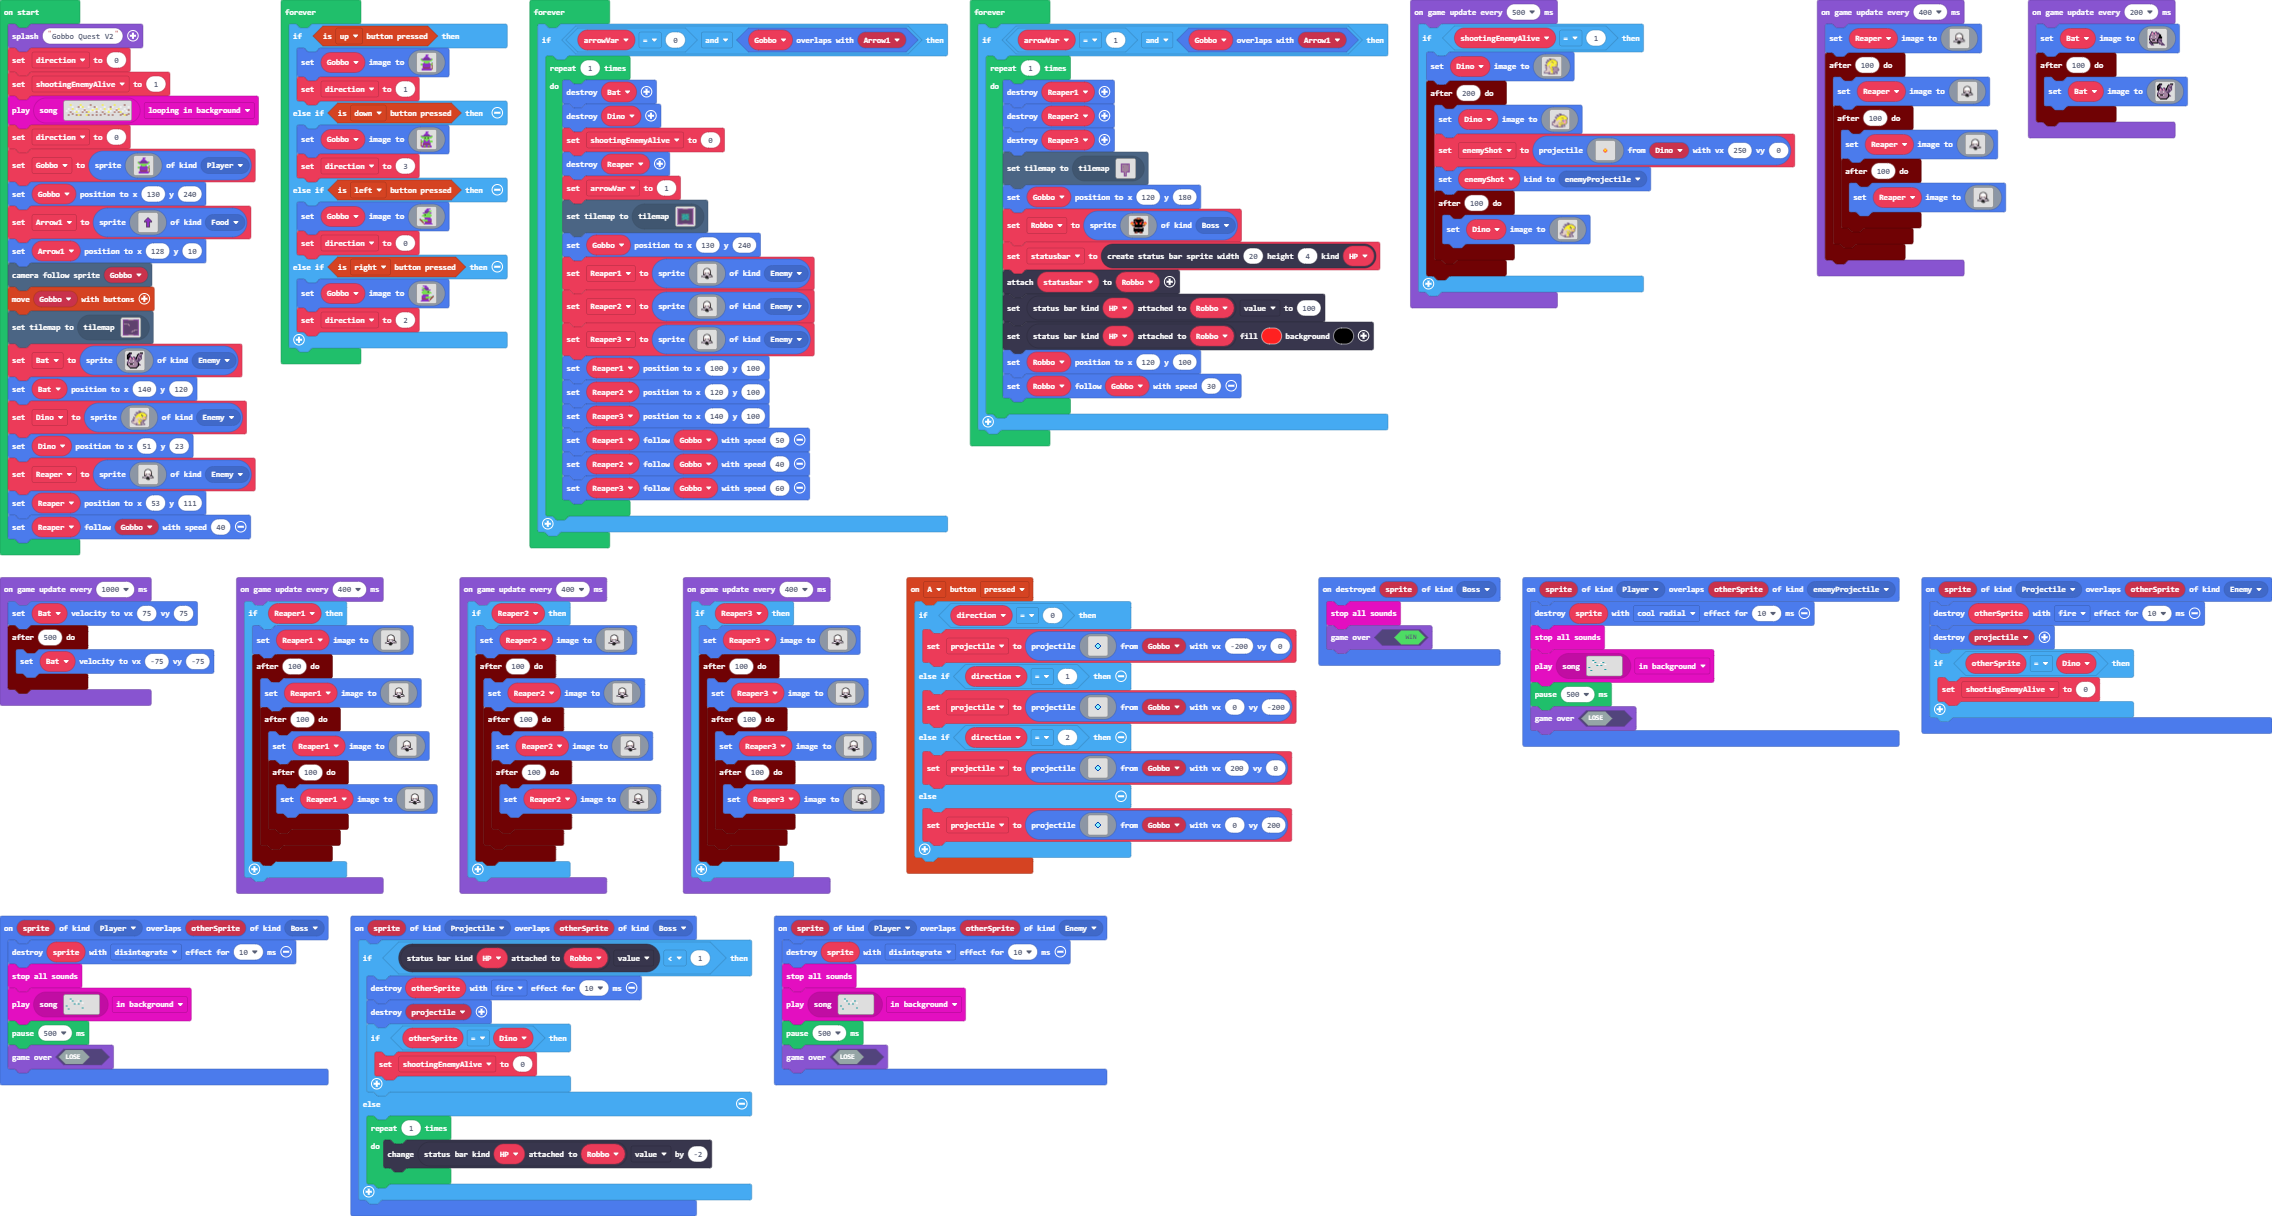
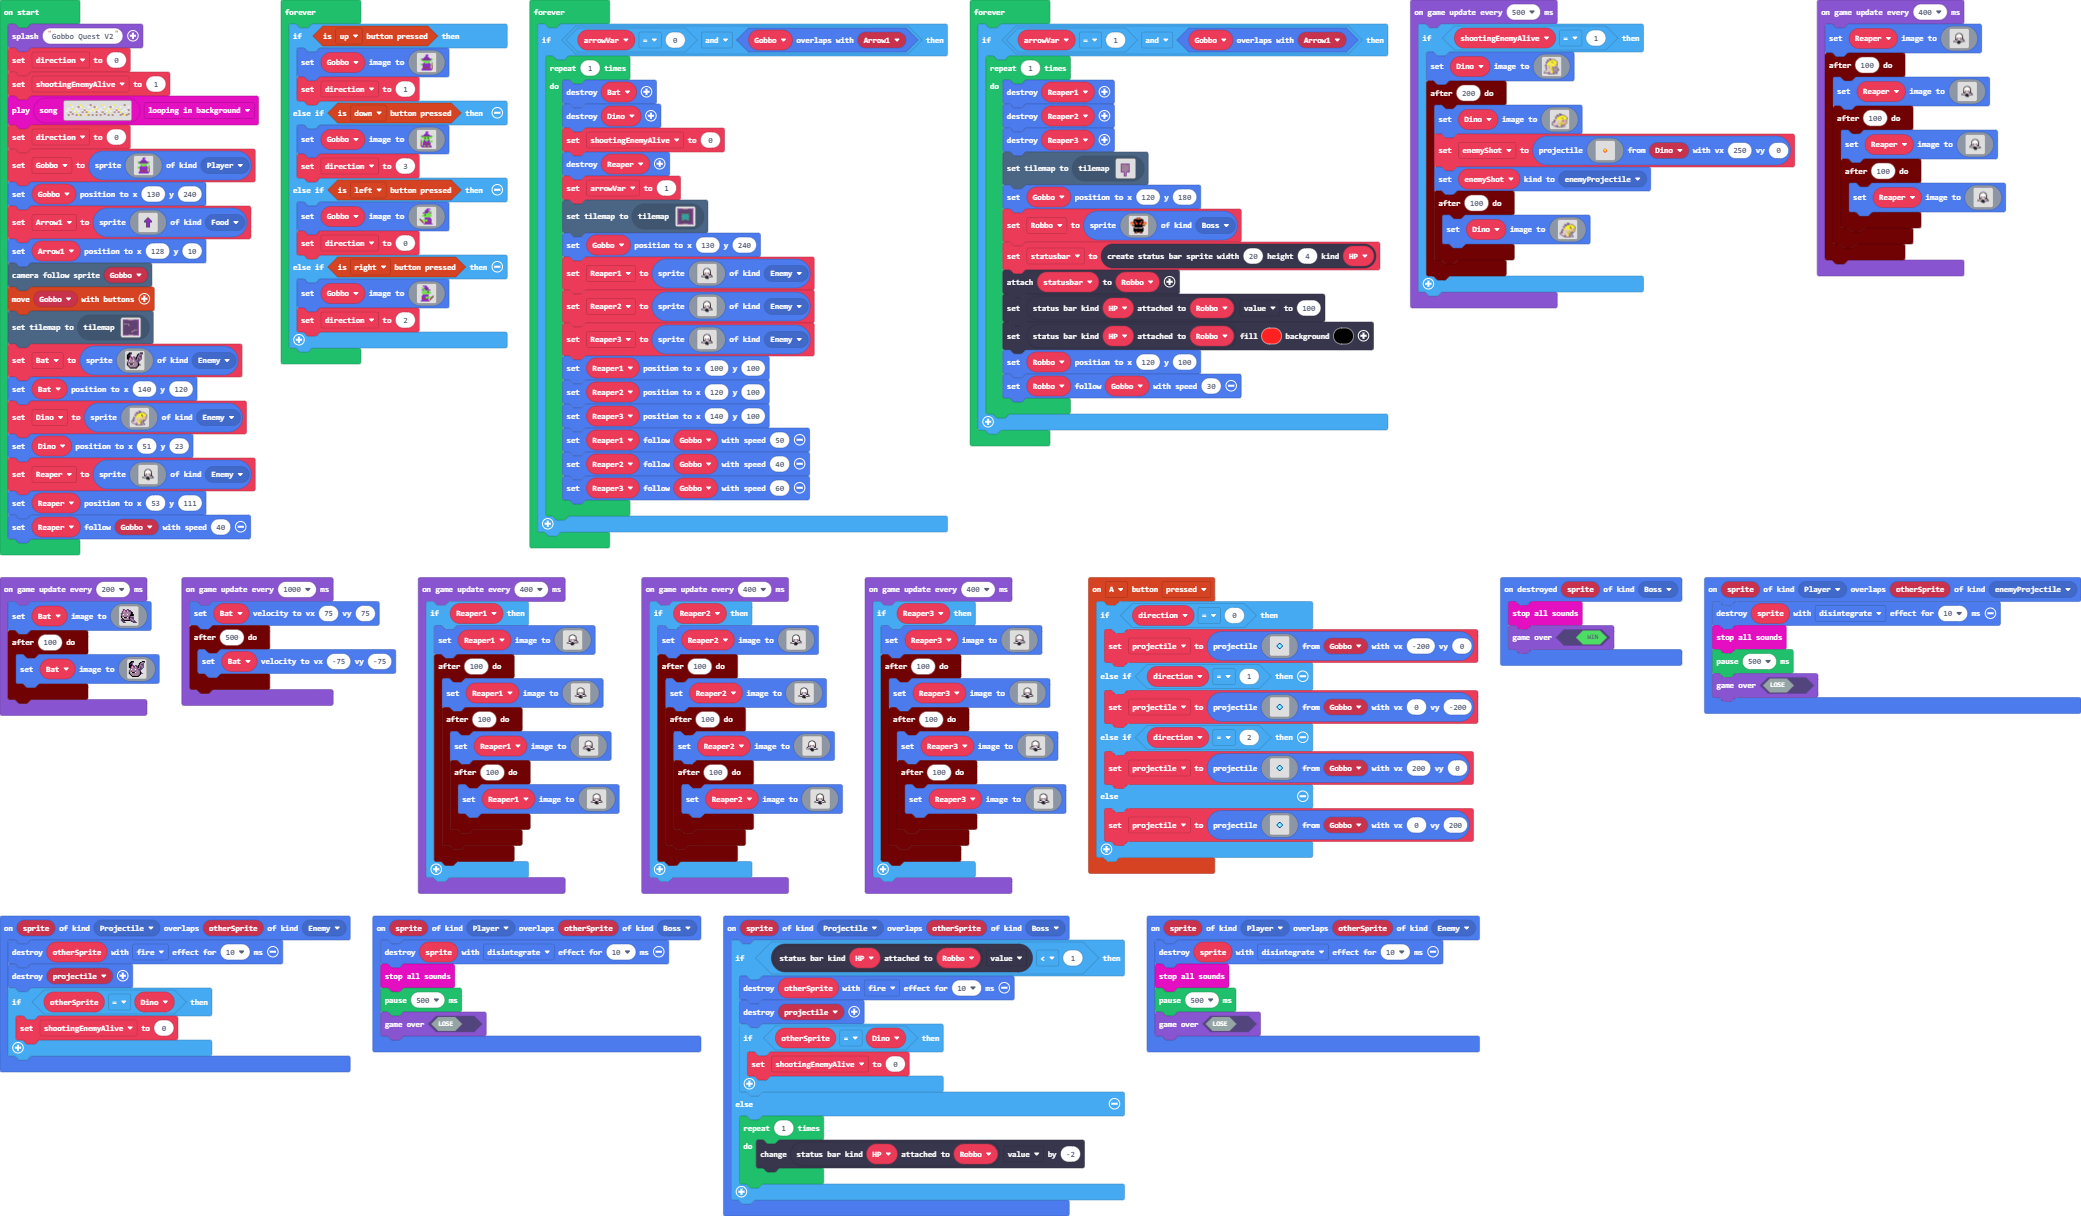
Project Updated

diff --git a/main.ts b/main.ts
@@ -3,9 +3,8 @@ namespace SpriteKind {
     export const Boss = SpriteKind.create()
 }
 sprites.onOverlap(SpriteKind.Player, SpriteKind.enemyProjectile, function (sprite, otherSprite) {
-    sprites.destroy(sprite, effects.coolRadial, 10)
+    sprites.destroy(sprite, effects.disintegrate, 10)
     music.stopAllSounds()
-    music.play(music.createSong(assets.song`Game-over`), music.PlaybackMode.InBackground)
     pause(500)
     game.gameOver(false)
 })
@@ -47,14 +46,12 @@ sprites.onOverlap(SpriteKind.Projectile, SpriteKind.Enemy, function (sprite, oth
 sprites.onOverlap(SpriteKind.Player, SpriteKind.Enemy, function (sprite, otherSprite) {
     sprites.destroy(sprite, effects.disintegrate, 10)
     music.stopAllSounds()
-    music.play(music.createSong(assets.song`Game-over`), music.PlaybackMode.InBackground)
     pause(500)
     game.gameOver(false)
 })
 sprites.onOverlap(SpriteKind.Player, SpriteKind.Boss, function (sprite, otherSprite) {
     sprites.destroy(sprite, effects.disintegrate, 10)
     music.stopAllSounds()
-    music.play(music.createSong(assets.song`Game-over`), music.PlaybackMode.InBackground)
     pause(500)
     game.gameOver(false)
 })
